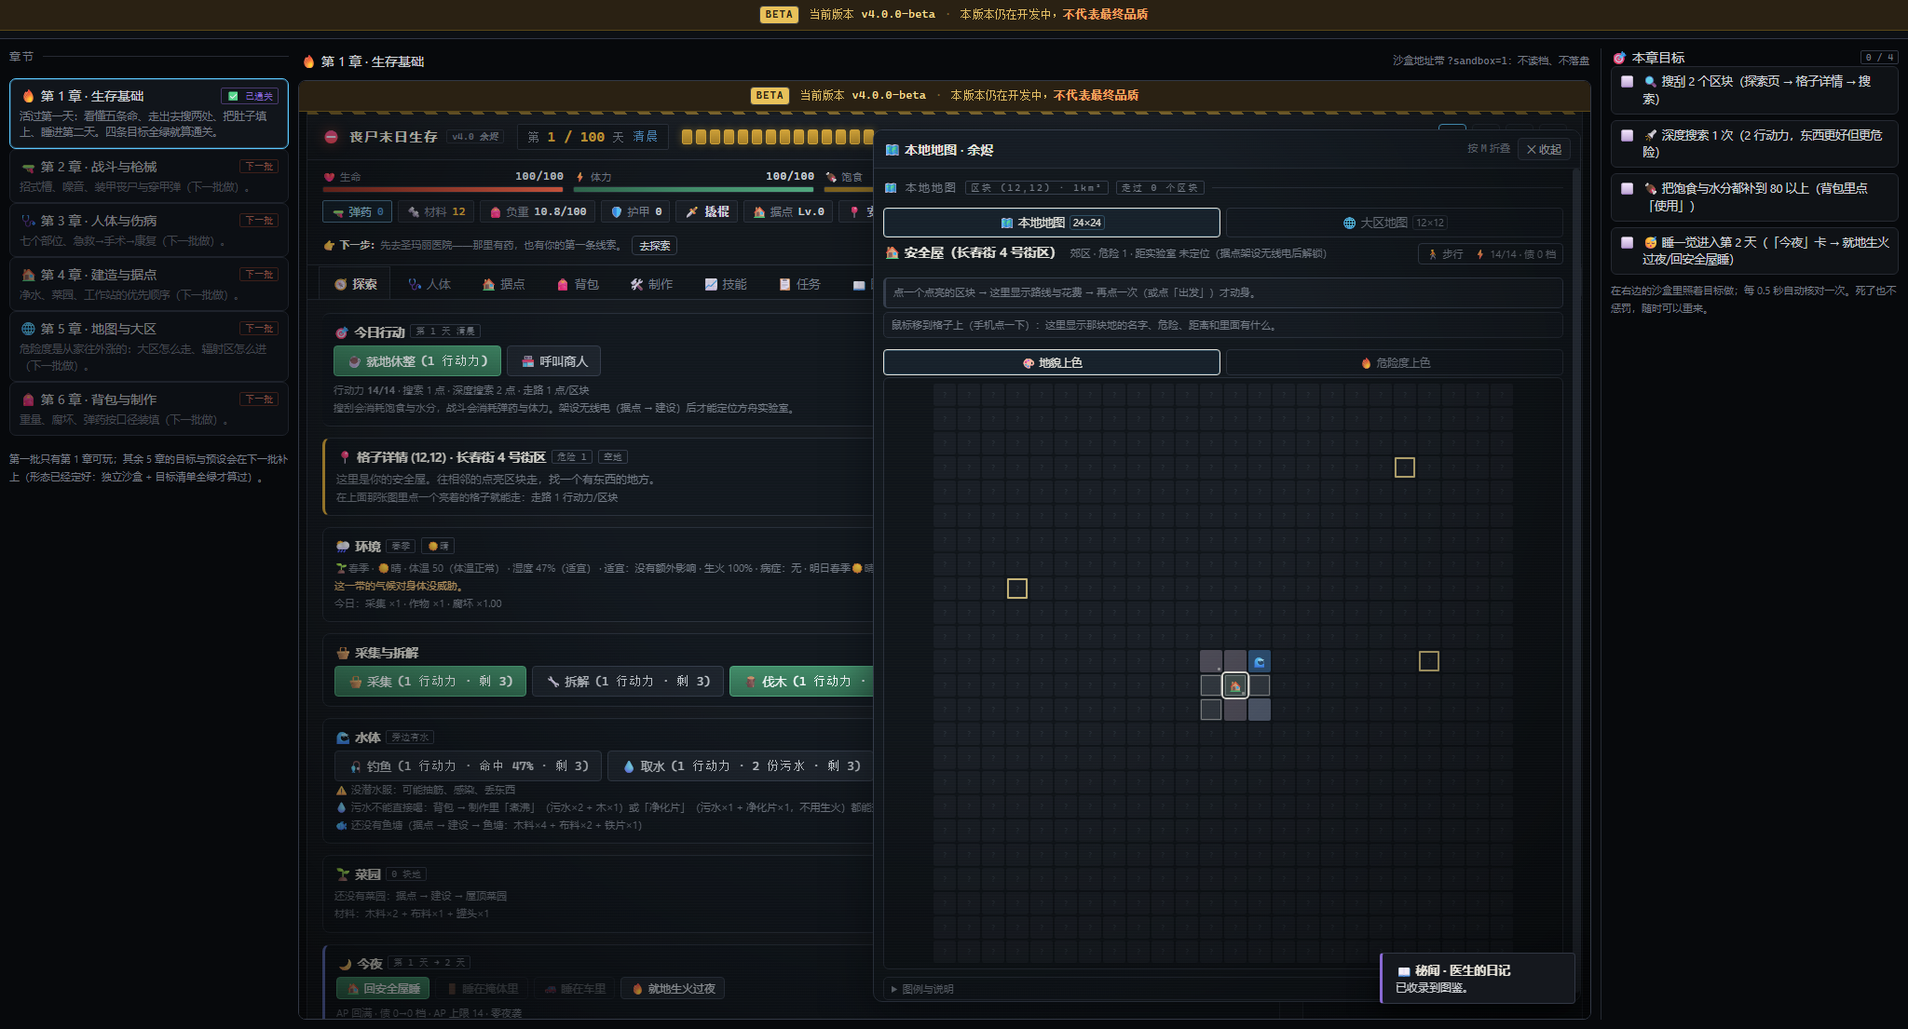
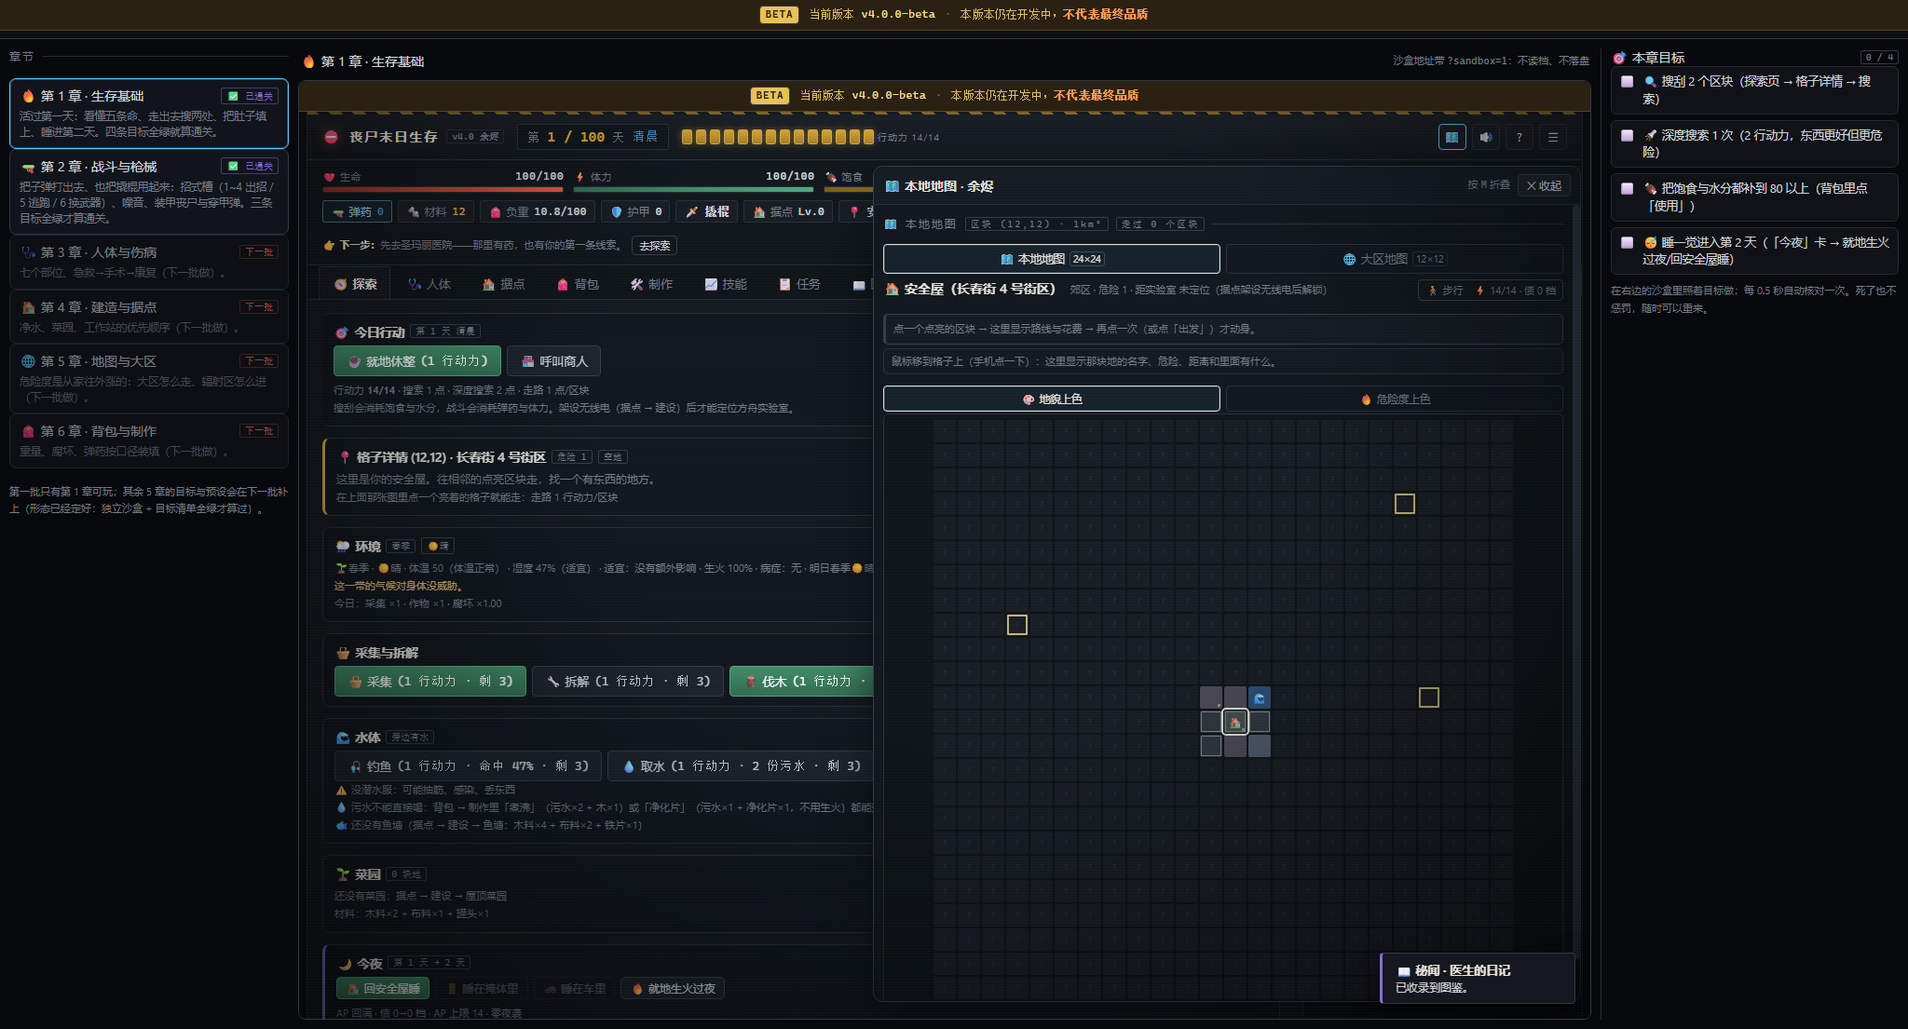
[AI] M33 第二批：教程沙盒第 2 章「战斗与枪械」+ 修 v4 战斗不记弹药消耗
用户「接着做」之后本批只加一章（第 3~6 章仍挂在 ready:false）——一章 = 一套目标 + 一套预设 + 一条探针，
自成一个可验收单元。

做了什么：
- sandbox-core：第 2 章「战斗与枪械」可玩。预设 lab-combat-01（手枪 + 撬棍 + 9mm FMJ 24 + AP 8 + 绷带/急救包，
  吃饱喝足不让饿肚子打断），三条目标：① 用枪打死 1 只（kills>=1 且 ammoUsed>=1）② 用近战打死 1 只（meleeKills>=1）
  ③ 在背包「弹药」区手动装填一次弹种（S.load 非空 —— 教学目的就是"打装甲要换穿甲弹"）。
- 快照多带 ammoUsed 与 load 两个字段（都是老数据，不新造仪表盘）；进度摘要不再写"（第 1 批）"。
- 顺手修一个真 bug：bridge.syncBack() 在 v4 战斗引擎那条路上从来没记过"打掉几发"（只有 legacy 战斗记
  stats.ammoUsed）→ 统计页"消耗弹药"长期偏低，第 2 章那条目标也永远判不绿。现在按实际扣掉的发数累加。

证据：
- 单测 411/411（m33-sandbox 15 → 17 条：新增第 2 章预设体检 + 三条目标逐条判绿
  （"近战杀的不能被算成用枪打死"）；章节表断言改成"前两章可玩、其余 4 章下一批"）。
- docs/_m33_probe.mjs 35/35（连跑两遍，真浏览器）：点章节卡切到第 2 章（iframe → ch=combat）→
  沙盒按自己的预设开局（第 1 天 / lab-combat-01 / 手枪 / AP 8 / 计数清零）→ 点招式槽打赢一场
  （kills 1 + ammoUsed 1，同时证明上面的记账修复生效）→ 换撬棍再打一场（meleeKills 1）→
  背包点「装填」（S.load.c9=a9_fmj）→ 3/3 通关、两章进度都落 zsv-lab-v1、两章都挂「已通关」徽章；
  「↻ 重来这一章」按当前章重置；隔离复检：主档密文一字未变、只多出进度那一个键。
- 截图 docs/_m33_shots/03_lab_chapter2.png；验收文档补「四十三附」，交接文档同步到"两批已完成"。

注意：本仓库同时有别的会话在改 M34/M35/M36 —— 本次仍只提交自己的文件与 hunk，
构建产物（docs/index.html、根目录单文件 HTML）里混着别人未提交的源码，故未一并提交。

diff --git a/src/v4/sandbox-core.ts b/src/v4/sandbox-core.ts
@@ -15,11 +15,13 @@
 export interface LabSnap {
   day: number; hp: number; hun: number; thi: number; ap: number;
   /** stats 里的计数器（都是老字段） */
-  scav: number; deep: number; crafted: number; kills: number; meleeKills: number;
+  scav: number; deep: number; crafted: number; kills: number; meleeKills: number; ammoUsed: number;
   loc: string;
   /** 生命归零（沙盒里不惩罚，只是提示重来） */
   over: boolean;
   inv: Record<string, number>;
+  /** 玩家手动指定过的装填弹种 {口径: 弹种 id}（第 2 章"换弹"那条目标用它判定） */
+  load: Record<string, string>;
 }
 
 export interface LabObjective {
@@ -58,10 +60,14 @@ export function snapOf(S: any): LabSnap {
   const inv: Record<string, number> = {};
   const src = (S && S.inv) || {};
   for (const k in src) { const v = n(src[k]); if (v > 0) inv[k] = v; }
+  const load: Record<string, string> = {};
+  const ld = (S && S.load) || {};
+  for (const cal in ld) { if (typeof ld[cal] === 'string' && ld[cal]) load[cal] = ld[cal]; }
   return {
     day: n(S && S.day, 1), hp: n(S && S.hp), hun: n(S && S.hun), thi: n(S && S.thi), ap: n(S && S.ap),
     scav: n(st.scav), deep: n(st.deep), crafted: n(st.crafted), kills: n(st.kills), meleeKills: n(st.meleeKills),
-    loc: String((S && S.loc) || 'base'), over: !!(S && S.over), inv,
+    ammoUsed: n(st.ammoUsed),
+    loc: String((S && S.loc) || 'base'), over: !!(S && S.over), inv, load,
   };
 }
 
@@ -74,8 +80,17 @@ export const SURVIVAL_PRESET: LabPreset = {
   inv: { crowbar: 1, can: 2, water: 2, bandage: 1, cloth: 2, wood: 1 },
 };
 
-/** 没写 preset 的章节用这个（第一批只有第 1 章可进，所以它只是兜底） */
+/** 没写 preset 的章节用这个（第 3~6 章还没做，所以它只是兜底） */
 const DEFAULT_PRESET: LabPreset = { seed: 'lab-basic-01', day: 1, ap: 14, mat: 12, hp: 100, hun: 80, thi: 80, sta: 100, inv: { crowbar: 1, can: 1, water: 1 } };
+
+/** 第 2 章「战斗与枪械」的沙盒开局：一把手枪 + 两种 9mm（普通弹与穿甲弹打装甲目标的手感不一样）
+    + 撬棍（近战不耗弹但会挨咬）。饱食水分给足 —— 这一章不该被饿肚子打断。 */
+export const COMBAT_PRESET: LabPreset = {
+  seed: 'lab-combat-01',
+  day: 1, ap: 14, mat: 12,
+  hp: 100, hun: 85, thi: 85, sta: 100,
+  inv: { pistol: 1, crowbar: 1, a9_fmj: 24, a9_ap: 8, bandage: 2, medkit: 1, can: 2, water: 2 },
+};
 
 export const LAB_CHAPTERS: LabChapter[] = [
   {
@@ -90,7 +105,17 @@ export const LAB_CHAPTERS: LabChapter[] = [
       { id: 'sleep', text: '😴 睡一觉进入第 2 天（「今夜」卡 → 就地生火过夜/回安全屋睡）', need: s => s.day >= 2 },
     ],
   },
-  { id: 'combat', icon: '🔫', name: '第 2 章 · 战斗与枪械', desc: '招式槽、噪音、装甲丧尸与穿甲弹（下一批做）。', ready: false, preset: DEFAULT_PRESET, objectives: [] },
+  {
+    id: 'combat', icon: '🔫', name: '第 2 章 · 战斗与枪械',
+    desc: '把子弹打出去、也把撬棍用起来：招式槽（1~4 出招 / 5 逃跑 / 6 换武器）、噪音、装甲丧尸与穿甲弹。三条目标全绿才算通关。',
+    ready: true,
+    preset: COMBAT_PRESET,
+    objectives: [
+      { id: 'gunKill', text: '🔫 用枪打死 1 只（战斗里点招式槽；枪声会拉高噪音）', need: s => s.kills >= 1 && s.ammoUsed >= 1 },
+      { id: 'meleeKill', text: '🗡 用近战打死 1 只（换上撬棍再打：近战不耗弹、但会挨咬）', need: s => s.meleeKills >= 1 },
+      { id: 'loadSwap', text: '🔩 在背包「弹药」区手动装填一次弹种（9mm 普通弹 ↔ 穿甲弹）', need: s => Object.keys(s.load).length > 0 },
+    ],
+  },
   { id: 'medical', icon: '🩺', name: '第 3 章 · 人体与伤病', desc: '七个部位、急救→手术→康复（下一批做）。', ready: false, preset: DEFAULT_PRESET, objectives: [] },
   { id: 'base', icon: '🏠', name: '第 4 章 · 建造与据点', desc: '净水、菜园、工作站的优先顺序（下一批做）。', ready: false, preset: DEFAULT_PRESET, objectives: [] },
   { id: 'world', icon: '🌐', name: '第 5 章 · 地图与大区', desc: '危险度是从家往外涨的：大区怎么走、辐射区怎么进（下一批做）。', ready: false, preset: DEFAULT_PRESET, objectives: [] },
@@ -157,7 +182,7 @@ export const isDone = (p: LabProgress, chId: string): boolean => !!p.done[chId];
 export function progressLine(p: LabProgress): string {
   const ready = LAB_CHAPTERS.filter(c => c.ready).length;
   const ok = LAB_CHAPTERS.filter(c => c.ready && isDone(p, c.id)).length;
-  return ready ? ('已通关 ' + ok + ' / ' + ready + ' 章（第 1 批）') : '暂无可玩章节';
+  return ready ? ('已通关 ' + ok + ' / ' + ready + ' 章') : '暂无可玩章节';
 }
 
 /**

diff --git a/tests/m33-sandbox.test.ts b/tests/m33-sandbox.test.ts
@@ -2,22 +2,24 @@
  * 这里只测纯逻辑（sandbox-core），DOM 与 iframe 生命周期由 docs/_m33_probe.mjs 在真浏览器里验。 */
 import { describe, expect, it } from 'vitest';
 import {
-  LAB_CHAPTERS, LAB_KEY, SURVIVAL_PRESET, chapterById, evalChapter, isDone, labFromSearch, labStateOf,
-  markDone, mergeSticky, parseProgress, progressLine, sandboxUrl, serializeProgress, snapOf, type LabSnap,
+  COMBAT_PRESET, LAB_CHAPTERS, LAB_KEY, SURVIVAL_PRESET, chapterById, evalChapter, isDone, labFromSearch,
+  labStateOf, markDone, mergeSticky, parseProgress, progressLine, sandboxUrl, serializeProgress, snapOf, type LabSnap,
 } from '../src/v4/sandbox-core';
 
 const snap = (over: Partial<LabSnap> = {}): LabSnap => ({
-  day: 1, hp: 100, hun: 62, thi: 58, ap: 14, scav: 0, deep: 0, crafted: 0, kills: 0, meleeKills: 0,
-  loc: 'base', over: false, inv: {}, ...over,
+  day: 1, hp: 100, hun: 62, thi: 58, ap: 14, scav: 0, deep: 0, crafted: 0, kills: 0, meleeKills: 0, ammoUsed: 0,
+  loc: 'base', over: false, inv: {}, load: {}, ...over,
 });
 
 const CH1 = chapterById('survival')!;
+const CH2 = chapterById('combat')!;
 
 describe('章节表', () => {
-  it('第一批只放第 1 章可玩，且它有目标（其余 5 章明确标"下一批"）', () => {
+  it('第 1、2 章可玩，其余 4 章明确标"下一批"', () => {
     expect(LAB_CHAPTERS.length).toBe(6);
-    expect(LAB_CHAPTERS.filter(c => c.ready).map(c => c.id)).toEqual(['survival']);
+    expect(LAB_CHAPTERS.filter(c => c.ready).map(c => c.id)).toEqual(['survival', 'combat']);
     expect(CH1.objectives.length).toBeGreaterThanOrEqual(3);
+    expect(CH2.objectives.length).toBeGreaterThanOrEqual(3);
     for (const c of LAB_CHAPTERS) {
       expect(c.icon.length).toBeGreaterThan(0);
       expect(c.name.length).toBeGreaterThan(0);
@@ -25,6 +27,28 @@ describe('章节表', () => {
       if (!c.ready) expect(c.objectives).toEqual([]);          // 没做的章节不许留"半截目标"
     }
     expect(new Set(LAB_CHAPTERS.map(c => c.id)).size).toBe(6);
+  });
+
+  it('第 2 章的预设：给枪给两种 9mm 给撬棍（三条目标都做得到），种子固定', () => {
+    expect(COMBAT_PRESET.seed).toBe('lab-combat-01');
+    expect(COMBAT_PRESET.inv.pistol).toBe(1);
+    expect(COMBAT_PRESET.inv.a9_fmj).toBeGreaterThan(0);
+    expect(COMBAT_PRESET.inv.a9_ap).toBeGreaterThan(0);
+    expect(COMBAT_PRESET.inv.crowbar).toBe(1);
+    expect(COMBAT_PRESET.hun).toBeGreaterThanOrEqual(80);      // 这一章不该被饿肚子打断
+    expect(labStateOf('combat').seed).toBe(COMBAT_PRESET.seed);
+  });
+
+  it('第 2 章的三条目标：枪杀（要真的开过枪）/ 近战杀 / 手动换弹', () => {
+    const g = (s: LabSnap) => evalChapter(CH2, s).items.find(i => i.id === 'gunKill')!.done;
+    expect(g(snap({ kills: 1, ammoUsed: 0 }))).toBe(false);     // 近战杀的不能被算成"用枪打死"
+    expect(g(snap({ kills: 1, ammoUsed: 2 }))).toBe(true);
+    const m = evalChapter(CH2, snap({ meleeKills: 1 })).items.find(i => i.id === 'meleeKill')!.done;
+    expect(m).toBe(true);
+    const l = (ld: Record<string, string>) => evalChapter(CH2, snap({ load: ld })).items.find(i => i.id === 'loadSwap')!.done;
+    expect(l({})).toBe(false);
+    expect(l({ c9: 'a9_ap' })).toBe(true);
+    expect(evalChapter(CH2, snap({ kills: 1, ammoUsed: 3, meleeKills: 1, load: { c9: 'a9_fmj' } })).passed).toBe(true);
   });
 
   it('第 1 章的沙盒预设：固定种子 + 开局不是满饱食（否则"吃饱喝足"这条一开始就是绿的）', () => {
@@ -119,9 +143,10 @@ describe('进度（存父页面，不进 iframe、不进存档）', () => {
     expect(LAB_KEY).toBe('zsv-lab-v1');
   });
 
-  it('进度摘要按"可玩章节"算（下一批那 5 章不计入分母）', () => {
-    expect(progressLine(parseProgress(null))).toBe('已通关 0 / 1 章（第 1 批）');
-    expect(progressLine(markDone(parseProgress(null), 'survival', 1))).toBe('已通关 1 / 1 章（第 1 批）');
+  it('进度摘要按"可玩章节"算（下一批那 4 章不计入分母）', () => {
+    expect(progressLine(parseProgress(null))).toBe('已通关 0 / 2 章');
+    expect(progressLine(markDone(parseProgress(null), 'survival', 1))).toBe('已通关 1 / 2 章');
+    expect(progressLine(markDone(parseProgress(null), 'combat', 1))).toBe('已通关 1 / 2 章');
   });
 });
 

diff --git a/src/v4/bridge.ts b/src/v4/bridge.ts
@@ -80,7 +80,13 @@ export function syncBack(p: PlayerProfile) {
   const cal = wid && L.ITEMS[wid]?.cal;
   const aid = cal ? L.loadedAmmo(cal) : null;
   const spent = Math.max(0, (S.ammo || 0) - Math.max(0, p.ammo));
-  if (aid && spent > 0) L.takeItem(aid, Math.min(spent, L.itemCount(aid)));
+  if (aid && spent > 0) {
+    const took = Math.min(spent, L.itemCount(aid));
+    L.takeItem(aid, took);
+    /* M33：v4 引擎这条路以前**没记"打了多少发"**（只有 legacy 战斗那条路记）——
+       统计页的"消耗弹药"因此长期偏低，教学沙盒第 2 章那条"用枪打死一只"的目标也判不出来。 */
+    S.stats.ammoUsed = (S.stats.ammoUsed || 0) + took;
+  }
   S.ammo = Math.max(0, p.ammo);
   ['bandage', 'medkit', 'molotov', 'grenade', 'smoke', 'antitoxin'].forEach(id => {
     const want = p.inventory[id] ?? 0;

diff --git a/docs/HANDOFF.md b/docs/HANDOFF.md
@@ -13,8 +13,8 @@
 | 主页仓库 | `E:\Files\bobbychina-pages`（`Bobbychina/Bobbychina.github.io`） |
 | 日记仓库 | `E:\Files\bobbychina-diary`（私有，一天一条） |
 | 线上地址 | <https://bobbychina.github.io/games/zombie-survival/> |
-| 测试基线 | **单测 385 通过 / 探针 9 套**（见 §5） |
-| 当前 HEAD | `95b7a28 [AI] M32 收尾 + M32b：商人弹药按口径卖…`（三个仓库都已提交推送，工作区干净） |
+| 测试基线 | **单测 411 通过 / 探针 10 套**（见 §5） |
+| 当前 HEAD | `ab65138 [AI] M33 第一批：教程沙盒…` ＋ 本轮的 M33 第二批（第 2 章 + `bridge` 记账修复） |
 | 用户 | bobbychina，学生 + 独立开发者，中文交流、口语化、不要客套。**他要的是"修好并上线"，不是报告** |
 
 ---
@@ -80,24 +80,57 @@ tests/*.test.ts          vitest 单测（385 条）
 - 探针 `docs/_m32b_probe.mjs` **19/19**（连跑两遍可重复）。顺手补了 `addXP('trade', 3)`
   （M24 承诺的"和商人买卖涨交易技能"以前**从来没人调过**）。
 
-### 回归基线（2026-09-15 实测，全部本地）
+### M33 已完成两批：教程沙盒（章节壳 + 独立 iframe 沙盒 + 第 1、2 章）
+
+用户拍板的四条：**① 沙盒完全隔离 ② 章节完成判定 = 目标清单全绿 ③ 章内无限重来、不惩罚
+④ 分批做章节**（第一批「壳 + iframe + 第 1 章」，第二批加第 2 章）。
+
+- `src/v4/sandbox-core.ts`（纯逻辑、可单测）：6 章章节表（**第 1、2 章可玩**，第 3~6 章 `ready:false`）、
+  `evalChapter`（全绿才算过）、`mergeSticky`（**勾选单调**：吃饱了再睡一觉饿下去，不许把打好的勾收回去）、
+  `snapOf`（iframe 出来的快照一律当不可信输入：含 stats 计数、背包、`load` 装填选择）、进度读写、`sandboxUrl`/`labFromSearch`。
+- `src/v4/tutorial-lab.ts`（父页面）：整屏覆盖层 = 左列章节 + 中间 iframe + 右列目标清单；
+  iframe 每 0.5 秒 postMessage 一份快照，父页面判绿打勾，全绿写本机进度 `zsv-lab-v1` + 「✅ 已通关」徽章。
+- **第 1 章「生存基础」**：搜刮 2 处 / 深搜 1 次 / 饱食水分都到 80 / 睡进第 2 天（预设 `lab-survival-01`，开局 62/58）。
+- **第 2 章「战斗与枪械」**：枪杀 1 只（`kills>=1 && ammoUsed>=1`）/ 近战杀 1 只 / 手动换一次装填弹种
+  （预设 `lab-combat-01`：手枪 + 撬棍 + 9mm FMJ 24 + AP 8）。顺手修掉 `bridge.syncBack()` 那条
+  **v4 战斗引擎从不记 `stats.ammoUsed`** 的账（统计页"消耗弹药"长期偏低）。
+- **隔离三条**（要动沙盒代码先读这三条）：iframe 走 `?sandbox=1&ch=…` → legacy `boot()` 走 `bootLab()`
+  （不读主档，按预设开一局固定种子的平行世界）；`writeSave()` 头一行 `isLab()` 直接 return
+  （**所有落盘都过这一个口子**）；☰ 菜单在沙盒里摘掉存档/读取/回滚/重开/世界账号/教程，`restoreBackup()` 加守卫。
+- 探针 `docs/_m33_probe.mjs` **35/35**（连跑两遍）：两章都能靠**真实操作**（点搜索/深搜/使用/回安全屋睡/
+  点招式槽/点装填）把目标打绿并通关；**隔离实测**：玩完整轮后主档密文一字未变、父页面进度未变、
+  localStorage 只多出进度那一个键、沙盒里 `saveGame/autosave` 也写不动主档。
+
+### 下一批
+
+1. **M33 第三批**：第 3~6 章（人体与伤病 / 建造与据点 / 地图与大区 / 背包与制作）——
+   章节表里已经留好位置（`ready:false`），补 `objectives` + `preset` 即可。第 2 章遗留的
+   "用穿甲弹打死装甲目标"需要一个新计数器，想做就得先在 legacy 加统计。
+2. **同仓多 agent**：这个仓库同时有别的会话在改 M34（地图摆法）/ M35（搜刮记账）/ M36（作弊码下线）。
+   提交前 `git status` 逐个看，**只 add 自己的文件**；同一个文件两边都改了就用 hunk 级暂存
+   （`git diff -- file | Out-File -Encoding utf8 p.patch` → `node E:\Files\myagent\pick-hunks.mjs p.patch 1,2,4 keep.patch`
+   → `git apply --cached keep.patch`；或者把自己那版写出来 `git hash-object -w` + `git update-index --cacheinfo`）。
+   **别 `git add -A`**：构建产物里会混进别人未提交的源码。
+3. **探针端口会被别人抢**：多个会话同时跑 `tools\serve.mjs --port 8791` 时会顺延端口，别人的"清理 node 进程"
+   也可能把你那个杀掉（本轮跑一半 8791 就没了 → 探针报 `SecurityError: localStorage`）。
+   探针起在**自己独占的端口**上，并在开头确保主档存在（M33 探针已这么做）。
+
+### 回归基线（2026-09-15 深夜实测，全部本地）
 
 ```
 _m21_layout_probe 31/31 · _m25_probe 33/33 · _m26_res_probe（15 档分辨率表，问题组合为空）
 _m27_tutorial_probe 12/12 · _m29_probe 23/23 · _m30_probe 20/20 · _m31_probe 15/15
-_m32_probe 17/17 · _m32b_probe 19/19       单测 385/385
+_m32_probe 17/17 · _m32b_probe 19/19 · _m33_probe 35/35     单测 411/411
 ```
 
 > 探针是**有状态**的（共用同一个浏览器 profile + 同一份存档）：读档会恢复"上次停在哪一页"，
-> 所以每套探针开头都该自己 `setTab('explore')` 之类的把前置条件摆好。老探针里凡是断言
-> "探索页里有 #v4world / 双列"的，已按新形态改成"地图在浮层，先 `V4Scale.toggleMap(true)`"。
-> `_m30_probe` 的"闷湿+偏凉→呼吸道感染"那条偶发红一次（概率判定），复跑即绿。
-
-### 下一批：M33 = 教程分章节 + iframe 沙盒（P2，形态已确认，见 §6）
-
-用户已拍板的形态：**独立 iframe**（真平行世界）+ 6 章（生存基础/战斗/人体与伤病/建造与据点/地图与大区/背包与制作）
-+ 混合教学（前两步脚本 → 自由练手 + 目标清单）+ **预设**伤情/敌人 + 固定假种子 + 进度可恢复。
-建议拆两批：先做"章节壳 + iframe + 第 1 章"，再做剩下 5 章。
+> 所以每套探针开头都该自己 `setTab('explore')` 之类的把前置条件摆好；换端口跑 = 换了 origin，
+> 存档是空的 —— M33 探针会先确保主档存在再留指纹（否则"隔离"验的是空气）。
+> `_m30_probe` 的"闷湿+偏凉→呼吸道感染"偶发红（概率判定），复跑即绿；
+> `_m32_probe` 的"悬浮窗里的地图画出来了"在多探针连跑时偶发 `cells=0`（单独跑三次都 17/17），
+> 探针已打印"地图首帧等待 Nms"便于定位。
+> **探针里跨 iframe 的坑**：`lab()` 这类包装函数的函数体是在**父页面**上下文执行的，
+> 沙盒里的全局必须写 `W.xxx`（裸 `DEV` 拿到的是父页面那份，踩过）。
 
 ---
 
@@ -201,8 +234,10 @@ cd E:\Files\bobbychina-pages; git add -A; git commit -m "[AI] M3x 同步：…";
 
 ## 8. 现在就能开始的清单（按顺序）
 
-1. 起浏览器把 §5 的九套探针 + 单测跑一遍，确认基线（任何一条红都先查是不是探针自身的前置状态）。
-2. **M33 第一批**：教程"章节壳 + 独立 iframe 沙盒 + 第 1 章（生存基础）"，形态见 §6；
-   建议先出 3~5 道选择题（沙盒里能不能读主档 / 章节完成判定 / 失败后是重来还是继续）让用户拍板。
-3. M33 之后可选：P3 视觉统一（技能页/弹药台还是 legacy 皮）、M32 遗留的"145%/160% 地图区内部滚动"若能顺手收掉更好。
-4. 收尾时按 §7 写日记（今天的已写，跨天再补），并可顺手 `update_user_profile`（用户偏好：先给结果、要证据、别客套）。
+1. 起浏览器把 §5 的十套探针 + 单测跑一遍，确认基线（任何一条红都先查是不是探针自身的前置状态）。
+2. **M33 第三批**：第 3~6 章（章节表已留好 `ready:false` 的位置，补 objectives + preset 即可）。
+3. **构建产物/上线**：`npm run build` + `node tools/sync-site.mjs` 要在**工作区没有别人未提交的源码**时做
+   （或用 `git worktree` + junction `node_modules` 从 HEAD 干净构建再拷产物回来）——否则会把别人的半成品一起发上线。
+4. 之后可选：P3 视觉统一（技能页/弹药台还是 legacy 皮）、M32 遗留的"145%/160% 地图区内部滚动"。
+5. 收尾时按 §7 写日记（2026-09-15 那条已经写到 M33，跨天再新开），并可顺手 `update_user_profile`
+   （用户偏好：先给结果、要证据、别客套）。
